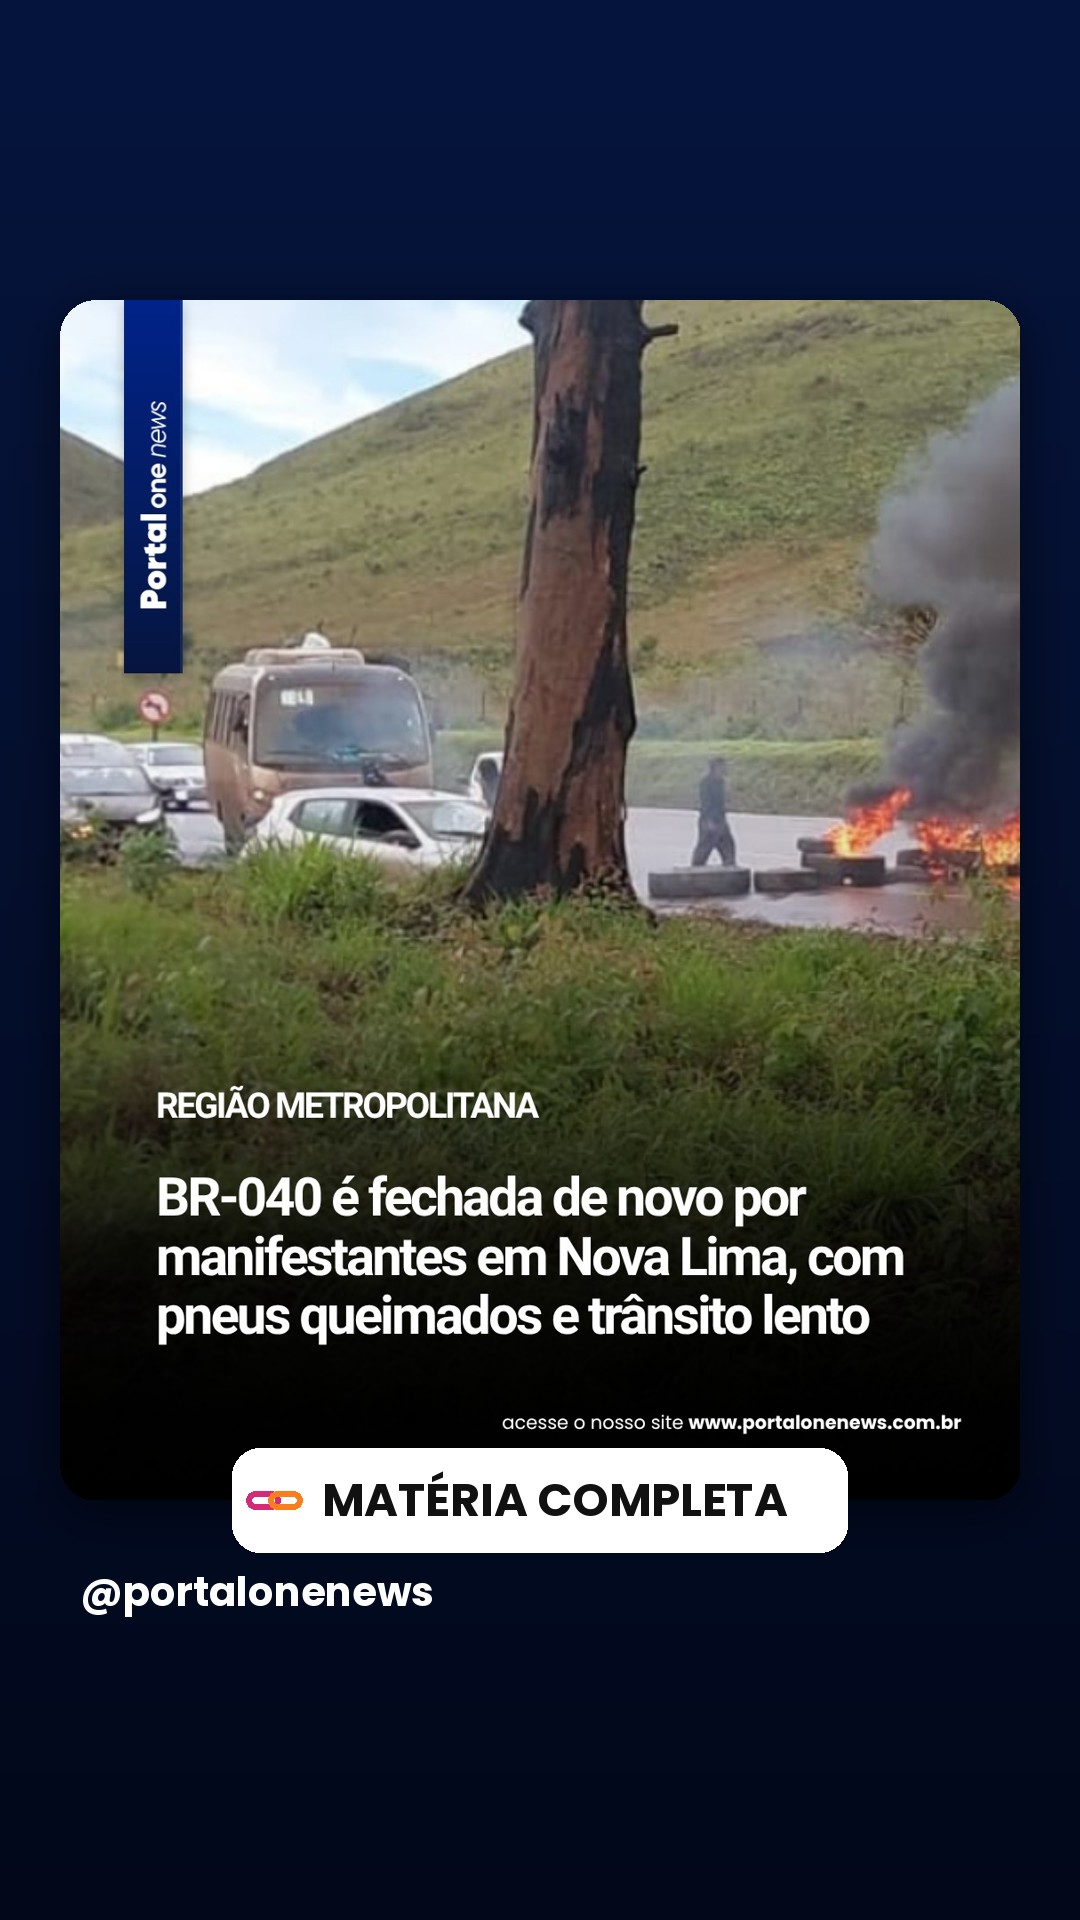
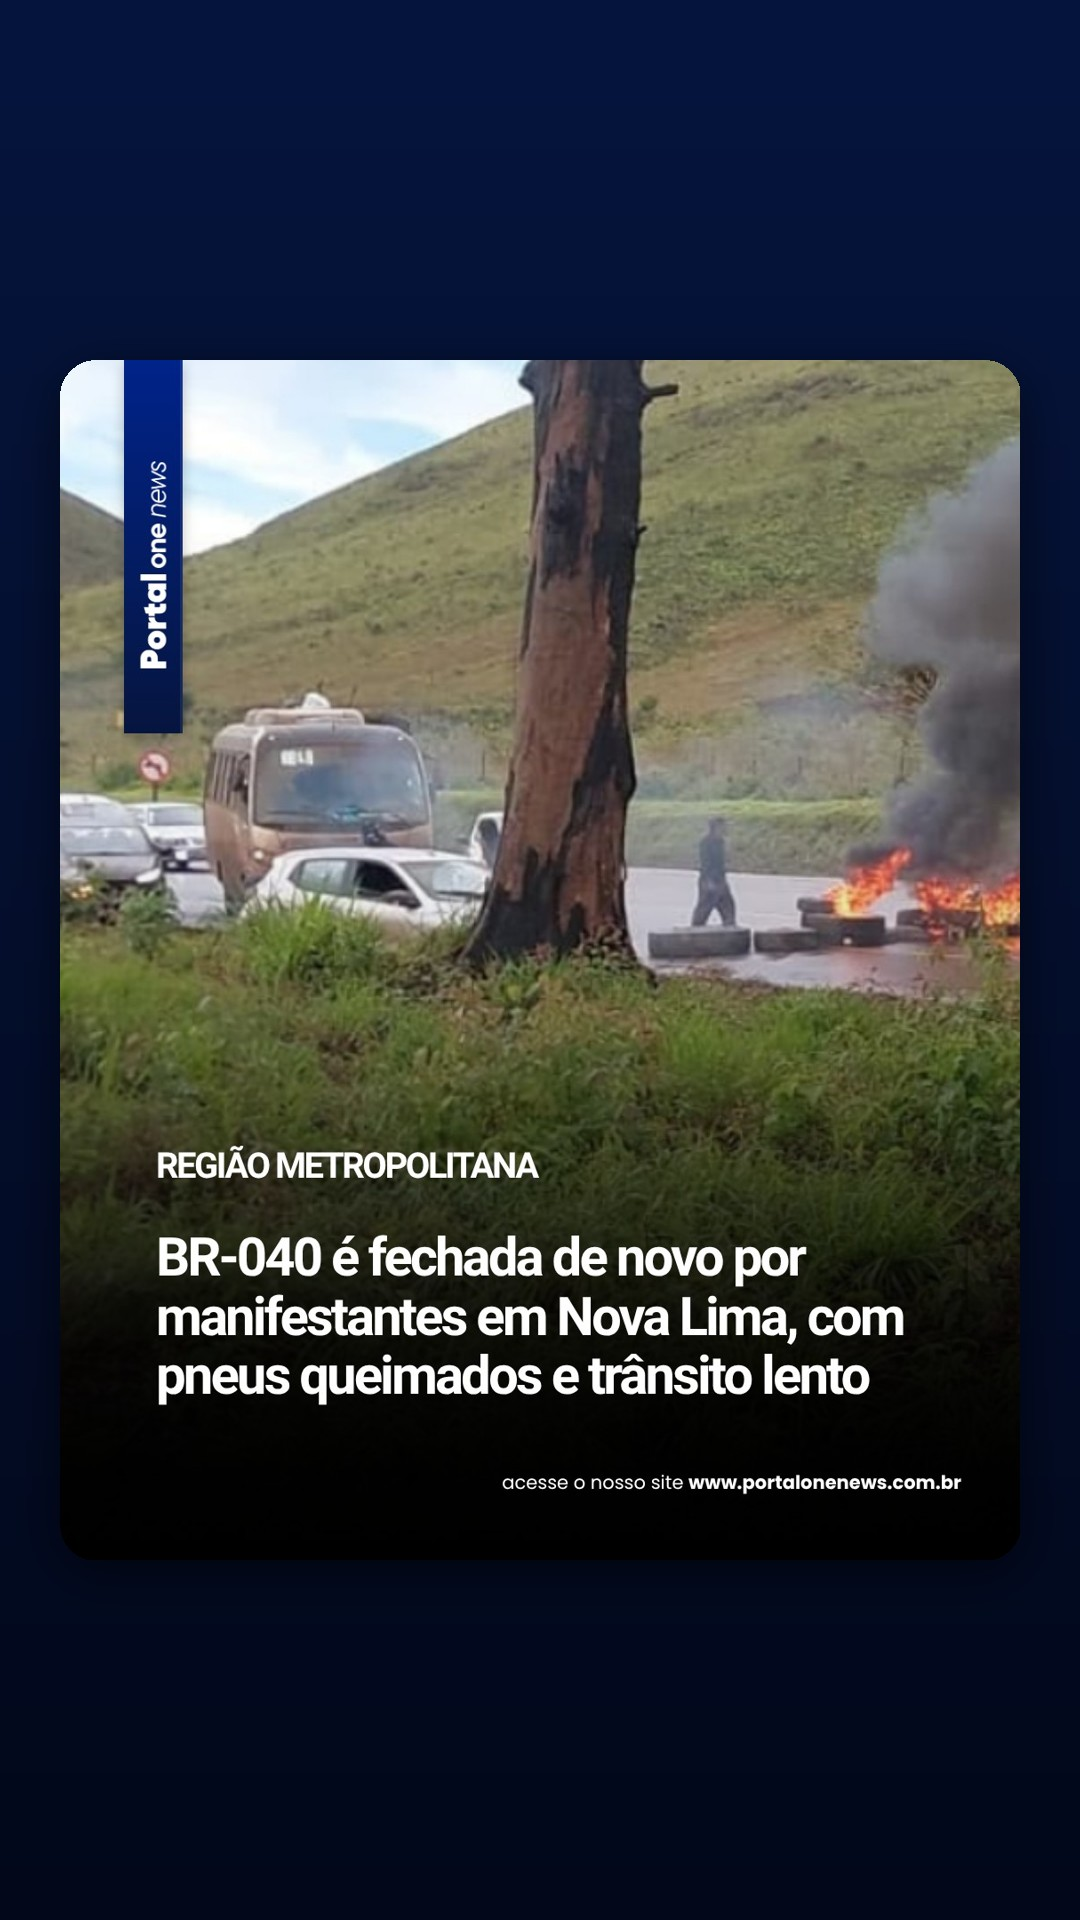
Rodada 8h 13/11: post Centrão; story só com a imagem (pedido do Israel)

Changed region(s): [[0.0306, 0.1562, 0.9472, 0.8438]]

diff --git a/robo/story.py b/robo/story.py
@@ -2,8 +2,8 @@
 uso: python3 robo/story.py <id> [<id> ...]
 Lê o item em dados/historico.json (ou dados/lote.json) para saber o portal e a arte.
 Fundo: one e luziense = azul-escuro; politica = preto; comercio = laranja (regra do Israel, 13/11/2026).
-Grava stories/AAAA-MM-DD/<id>.jpg. O botão "MATÉRIA COMPLETA" é só desenho:
-a API do Instagram (Windsor create_story) não aceita figurinha de link nem de menção."""
+Grava stories/AAAA-MM-DD/<id>.jpg. Só a imagem: sem botão "MATÉRIA COMPLETA" e sem @
+(Israel, 13/11/2026: a API não aceita figurinha de link, então não desenhar o botão)."""
 import json,os,sys
 from PIL import Image,ImageDraw,ImageFont,ImageFilter
 B=os.path.dirname(os.path.abspath(__file__));R=os.path.dirname(B)
@@ -26,20 +26,11 @@ def gerar(i,o):
   for y in range(H):
     t=y/H;dr.line([(0,y),(W,y)],fill=tuple(int(c1[k]+(c2[k]-c1[k])*t) for k in range(3)))
   a=Image.open(f'{R}/{arte}').convert('RGB');w=960;a=a.resize((w,int(a.height*w/a.width)))
-  x=(W-w)//2;y=(H-a.height)//2-60
+  x=(W-w)//2;y=(H-a.height)//2
   m=Image.new('L',a.size,0);ImageDraw.Draw(m).rounded_rectangle([0,0,a.width,a.height],36,fill=255)
   sh=Image.new('L',(W,H),0);ImageDraw.Draw(sh).rounded_rectangle([x,y+12,x+w,y+12+a.height],36,fill=140)
   bg.paste((0,0,0),(0,0),sh.filter(ImageFilter.GaussianBlur(24)))
   bg.paste(a,(x,y),m)
-  f=ImageFont.truetype(FB,46);txt='MATÉRIA COMPLETA'
-  tw=dr.textlength(txt,font=f);bw=int(tw+150);bh=104;bx=(W-bw)//2;by=y+a.height-bh//2
-  dr.rounded_rectangle([bx,by,bx+bw,by+bh],28,fill=(255,255,255))
-  ix,iy=bx+42,by+bh//2
-  for dx,col in ((-11,(214,41,118)),(11,(250,126,30))):
-    dr.rounded_rectangle([ix+dx-17,iy-9,ix+dx+17,iy+9],9,outline=col,width=6)
-  dr.text((bx+90,by+bh//2),txt,font=f,fill=(17,17,17),anchor='lm')
-  f2=ImageFont.truetype(FB,40)
-  dr.text((x+20,by+bh+40),'@portalonenews',font=f2,fill=(255,255,255),anchor='lm')
   dia=os.path.basename(os.path.dirname(arte));os.makedirs(f'{R}/stories/{dia}',exist_ok=True)
   fn=f'stories/{dia}/{i}.jpg';bg.save(f'{R}/{fn}',quality=90);print(i,'story:',fn)
 D=itens()

diff --git a/REGRAS.md b/REGRAS.md
@@ -7,10 +7,10 @@
 
 ## 📱 STORIES: 30% A 40% DOS POSTS, SÓ OS MAIS IMPORTANTES (Israel, 13/11/2026 ~09h)
 - Depois de publicar no feed uma notícia **muito importante ou impactante** (Santa Luzia, urgente, chuva, trânsito travado, polícia de grande repercussão, decisão que mexe com o bolso), repita no **story**. Meta: **30% do total de posts do dia, no máximo 40%**. Notícia comum, curiosidade, fofoca e esporte de rotina não vão para o story.
-- Como fazer: `python3 robo/story.py <id>` (gera `stories/AAAA-MM-DD/<id>.jpg`, 1080x1920, arte do feed no centro, botão "MATÉRIA COMPLETA" e "@portalonenews"), commit + push, e publique com `create_story` (`image_url` = link raw.githubusercontent do arquivo). Registre o id em `dados/stories.json` (lista `{"data","hora","id","media_id"}`) para contar a cota.
+- Como fazer: `python3 robo/story.py <id>` (gera `stories/AAAA-MM-DD/<id>.jpg`, 1080x1920, **só a arte do feed no centro**, sem botão "MATÉRIA COMPLETA" e sem @: Israel, 13/11 ~09h20), commit + push, e publique com `create_story` (`image_url` = link raw.githubusercontent do arquivo). Registre o id em `dados/stories.json` (lista `{"data","hora","id","media_id"}`) para contar a cota.
 - **Fundo por portal**: ONE News e Luziense = **azul-escuro** (#06153E); Política = **preto**; Comércio = **laranja** (#FF5400 → #E01D0D).
 - Olhe a imagem (Read) antes de publicar. Story vem **depois** do post do feed, e não conta nos 100 do feed.
-- **Limite técnico**: a API do Instagram (Windsor `create_story`) não aceita figurinha de link nem de menção. O botão "MATÉRIA COMPLETA" sai só desenhado, **não clicável**. O Israel quer que a pessoa clique e vá ao post: isso continua manual até a API permitir.
+- **Limite técnico**: a API do Instagram (Windsor `create_story`) não aceita figurinha de link nem de menção. Por isso **não desenhar** botão de link (Israel: "só coloca a imagem nos stories"). O link clicável, quando ele quiser, ele põe à mão.
 
 ## 🔍 IMAGEM NÍTIDA E NADA DE "VÍDEO" EM POST DE FOTO (Israel, 10/11/2026 ~08h30, bronca: "essa imagem não dá para ver nada... no título você colocou vídeo, sendo que é uma imagem estática... nós somos um portal de notícias sério")
 - O post do Barreiro (10/11 07:52) saiu com um print escuro e borrado de vídeo, onde não dava para entender nada, e com o título começando por "Vídeo:". **Não pode mais.**
